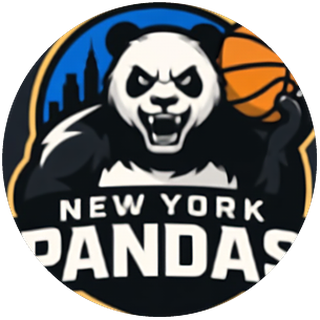
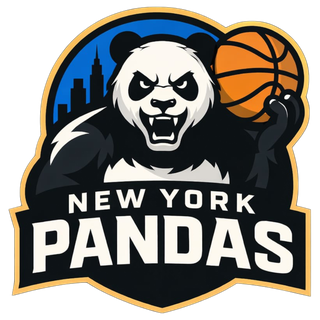
Loghi nuovi per 8 squadre con sfondi più chiari presi dai loghi (v29)
Claude-Session: https://claude.ai/code/session_01FtktU2z5U25oG1RZDpQNAc

diff --git a/skin-notte.css b/skin-notte.css
@@ -2116,21 +2116,21 @@ html.notte .gd.gbar:not(#zz) { background: rgb(91, 33, 182) !important; box-shad
 html.notte .gd.gbar:not(#zz) i:not(.ok):not(.lv):not(.ng) { background: rgb(59, 15, 122) !important; }
 html.notte body[data-ct="DOL"] .gd.gbar:not(#zz) i:not(.ok):not(.lv):not(.ng) { color: rgb(255, 255, 255) !important; -webkit-text-fill-color: rgb(255, 255, 255) !important; }
 /* loghi delle 16 squadre ESPN 16 */
-.badge.logo.lg-DET,.faglb.logo.lg-DET,.tvob.logo.lg-DET{background-image:url("loghi/det.png")!important;background-size:contain!important;background-repeat:no-repeat!important;background-position:center!important;border-radius:0!important;background-color:transparent!important}
-.badge.logo.lg-CLE,.faglb.logo.lg-CLE,.tvob.logo.lg-CLE{background-image:url("loghi/cle.png")!important;background-size:contain!important;background-repeat:no-repeat!important;background-position:center!important;border-radius:0!important;background-color:transparent!important}
-.badge.logo.lg-BOS,.faglb.logo.lg-BOS,.tvob.logo.lg-BOS{background-image:url("loghi/bos.png")!important;background-size:contain!important;background-repeat:no-repeat!important;background-position:center!important;border-radius:0!important;background-color:transparent!important}
+.badge.logo.lg-DET,.faglb.logo.lg-DET,.tvob.logo.lg-DET{background-image:url("loghi/det.png?v=29")!important;background-size:contain!important;background-repeat:no-repeat!important;background-position:center!important;border-radius:0!important;background-color:transparent!important}
+.badge.logo.lg-CLE,.faglb.logo.lg-CLE,.tvob.logo.lg-CLE{background-image:url("loghi/cle.png?v=29")!important;background-size:contain!important;background-repeat:no-repeat!important;background-position:center!important;border-radius:0!important;background-color:transparent!important}
+.badge.logo.lg-BOS,.faglb.logo.lg-BOS,.tvob.logo.lg-BOS{background-image:url("loghi/bos.png?v=29")!important;background-size:contain!important;background-repeat:no-repeat!important;background-position:center!important;border-radius:0!important;background-color:transparent!important}
 .badge.logo.lg-NYS,.faglb.logo.lg-NYS,.tvob.logo.lg-NYS{background-image:url("loghi/nys.png")!important;background-size:contain!important;background-repeat:no-repeat!important;background-position:center!important;border-radius:0!important;background-color:transparent!important}
 .badge.logo.lg-QUE,.faglb.logo.lg-QUE,.tvob.logo.lg-QUE{background-image:url("loghi/que.png")!important;background-size:contain!important;background-repeat:no-repeat!important;background-position:center!important;border-radius:0!important;background-color:transparent!important}
 .badge.logo.lg-CHA,.faglb.logo.lg-CHA,.tvob.logo.lg-CHA{background-image:url("loghi/cha.png")!important;background-size:contain!important;background-repeat:no-repeat!important;background-position:center!important;border-radius:0!important;background-color:transparent!important}
-.badge.logo.lg-NYP,.faglb.logo.lg-NYP,.tvob.logo.lg-NYP{background-image:url("loghi/nyp.png")!important;background-size:contain!important;background-repeat:no-repeat!important;background-position:center!important;border-radius:0!important;background-color:transparent!important}
+.badge.logo.lg-NYP,.faglb.logo.lg-NYP,.tvob.logo.lg-NYP{background-image:url("loghi/nyp.png?v=29")!important;background-size:contain!important;background-repeat:no-repeat!important;background-position:center!important;border-radius:0!important;background-color:transparent!important}
 .badge.logo.lg-CAN,.faglb.logo.lg-CAN,.tvob.logo.lg-CAN{background-image:url("loghi/can.png")!important;background-size:contain!important;background-repeat:no-repeat!important;background-position:center!important;border-radius:0!important;background-color:transparent!important}
 .badge.logo.lg-HOU,.faglb.logo.lg-HOU,.tvob.logo.lg-HOU{background-image:url("loghi/hou.png")!important;background-size:contain!important;background-repeat:no-repeat!important;background-position:center!important;border-radius:0!important;background-color:transparent!important}
-.badge.logo.lg-LVA,.faglb.logo.lg-LVA,.tvob.logo.lg-LVA{background-image:url("loghi/lvg.png")!important;background-size:contain!important;background-repeat:no-repeat!important;background-position:center!important;border-radius:0!important;background-color:transparent!important}
-.badge.logo.lg-HON,.faglb.logo.lg-HON,.tvob.logo.lg-HON{background-image:url("loghi/hon.png")!important;background-size:contain!important;background-repeat:no-repeat!important;background-position:center!important;border-radius:0!important;background-color:transparent!important}
+.badge.logo.lg-LVA,.faglb.logo.lg-LVA,.tvob.logo.lg-LVA{background-image:url("loghi/lvg.png?v=29")!important;background-size:contain!important;background-repeat:no-repeat!important;background-position:center!important;border-radius:0!important;background-color:transparent!important}
+.badge.logo.lg-HON,.faglb.logo.lg-HON,.tvob.logo.lg-HON{background-image:url("loghi/hon.png?v=29")!important;background-size:contain!important;background-repeat:no-repeat!important;background-position:center!important;border-radius:0!important;background-color:transparent!important}
 .badge.logo.lg-ALB,.faglb.logo.lg-ALB,.tvob.logo.lg-ALB{background-image:url("loghi/alb.png")!important;background-size:contain!important;background-repeat:no-repeat!important;background-position:center!important;border-radius:0!important;background-color:transparent!important}
 .badge.logo.lg-ALA,.faglb.logo.lg-ALA,.tvob.logo.lg-ALA{background-image:url("loghi/ala.png")!important;background-size:contain!important;background-repeat:no-repeat!important;background-position:center!important;border-radius:0!important;background-color:transparent!important}
-.badge.logo.lg-WIC,.faglb.logo.lg-WIC,.tvob.logo.lg-WIC{background-image:url("loghi/wic.png")!important;background-size:contain!important;background-repeat:no-repeat!important;background-position:center!important;border-radius:0!important;background-color:transparent!important}
+.badge.logo.lg-WIC,.faglb.logo.lg-WIC,.tvob.logo.lg-WIC{background-image:url("loghi/wic.png?v=29")!important;background-size:contain!important;background-repeat:no-repeat!important;background-position:center!important;border-radius:0!important;background-color:transparent!important}
 .badge.logo.lg-FAL,.faglb.logo.lg-FAL,.tvob.logo.lg-FAL{background-image:url("loghi/fal.png")!important;background-size:contain!important;background-repeat:no-repeat!important;background-position:center!important;border-radius:0!important;background-color:transparent!important}
-.badge.logo.lg-SRO,.faglb.logo.lg-SRO,.tvob.logo.lg-SRO{background-image:url("loghi/sro.png")!important;background-size:contain!important;background-repeat:no-repeat!important;background-position:center!important;border-radius:0!important;background-color:transparent!important}
+.badge.logo.lg-SRO,.faglb.logo.lg-SRO,.tvob.logo.lg-SRO{background-image:url("loghi/sro.png?v=29")!important;background-size:contain!important;background-repeat:no-repeat!important;background-position:center!important;border-radius:0!important;background-color:transparent!important}
 /* (27) tabellino Dynasty TV: AVG 50+ viola come Dreamers (regola mancante nell estrazione) */
 .tvbox td.pdkl.pv .pdkb { background: rgb(139, 92, 246); color: rgb(255, 255, 255); }

diff --git a/skin-giorno.css b/skin-giorno.css
@@ -2288,21 +2288,21 @@ html:not(.notte) .gd.gbar:not(#zz) { background: rgb(255, 255, 255); box-shadow:
 html:not(.notte) .gd.gbar:not(#zz) i:not(.ok):not(.lv):not(.ng) { background: rgb(243, 240, 248); }
 html:not(.notte) body[data-ct="DOL"] .gd.gbar:not(#zz) i:not(.ok):not(.lv):not(.ng) { color: rgb(23, 71, 201) !important; -webkit-text-fill-color: rgb(23, 71, 201) !important; }
 /* loghi delle 16 squadre ESPN 16 */
-.badge.logo.lg-DET,.faglb.logo.lg-DET,.tvob.logo.lg-DET{background-image:url("loghi/det.png")!important;background-size:contain!important;background-repeat:no-repeat!important;background-position:center!important;border-radius:0!important;background-color:transparent!important}
-.badge.logo.lg-CLE,.faglb.logo.lg-CLE,.tvob.logo.lg-CLE{background-image:url("loghi/cle.png")!important;background-size:contain!important;background-repeat:no-repeat!important;background-position:center!important;border-radius:0!important;background-color:transparent!important}
-.badge.logo.lg-BOS,.faglb.logo.lg-BOS,.tvob.logo.lg-BOS{background-image:url("loghi/bos.png")!important;background-size:contain!important;background-repeat:no-repeat!important;background-position:center!important;border-radius:0!important;background-color:transparent!important}
+.badge.logo.lg-DET,.faglb.logo.lg-DET,.tvob.logo.lg-DET{background-image:url("loghi/det.png?v=29")!important;background-size:contain!important;background-repeat:no-repeat!important;background-position:center!important;border-radius:0!important;background-color:transparent!important}
+.badge.logo.lg-CLE,.faglb.logo.lg-CLE,.tvob.logo.lg-CLE{background-image:url("loghi/cle.png?v=29")!important;background-size:contain!important;background-repeat:no-repeat!important;background-position:center!important;border-radius:0!important;background-color:transparent!important}
+.badge.logo.lg-BOS,.faglb.logo.lg-BOS,.tvob.logo.lg-BOS{background-image:url("loghi/bos.png?v=29")!important;background-size:contain!important;background-repeat:no-repeat!important;background-position:center!important;border-radius:0!important;background-color:transparent!important}
 .badge.logo.lg-NYS,.faglb.logo.lg-NYS,.tvob.logo.lg-NYS{background-image:url("loghi/nys.png")!important;background-size:contain!important;background-repeat:no-repeat!important;background-position:center!important;border-radius:0!important;background-color:transparent!important}
 .badge.logo.lg-QUE,.faglb.logo.lg-QUE,.tvob.logo.lg-QUE{background-image:url("loghi/que.png")!important;background-size:contain!important;background-repeat:no-repeat!important;background-position:center!important;border-radius:0!important;background-color:transparent!important}
 .badge.logo.lg-CHA,.faglb.logo.lg-CHA,.tvob.logo.lg-CHA{background-image:url("loghi/cha.png")!important;background-size:contain!important;background-repeat:no-repeat!important;background-position:center!important;border-radius:0!important;background-color:transparent!important}
-.badge.logo.lg-NYP,.faglb.logo.lg-NYP,.tvob.logo.lg-NYP{background-image:url("loghi/nyp.png")!important;background-size:contain!important;background-repeat:no-repeat!important;background-position:center!important;border-radius:0!important;background-color:transparent!important}
+.badge.logo.lg-NYP,.faglb.logo.lg-NYP,.tvob.logo.lg-NYP{background-image:url("loghi/nyp.png?v=29")!important;background-size:contain!important;background-repeat:no-repeat!important;background-position:center!important;border-radius:0!important;background-color:transparent!important}
 .badge.logo.lg-CAN,.faglb.logo.lg-CAN,.tvob.logo.lg-CAN{background-image:url("loghi/can.png")!important;background-size:contain!important;background-repeat:no-repeat!important;background-position:center!important;border-radius:0!important;background-color:transparent!important}
 .badge.logo.lg-HOU,.faglb.logo.lg-HOU,.tvob.logo.lg-HOU{background-image:url("loghi/hou.png")!important;background-size:contain!important;background-repeat:no-repeat!important;background-position:center!important;border-radius:0!important;background-color:transparent!important}
-.badge.logo.lg-LVA,.faglb.logo.lg-LVA,.tvob.logo.lg-LVA{background-image:url("loghi/lvg.png")!important;background-size:contain!important;background-repeat:no-repeat!important;background-position:center!important;border-radius:0!important;background-color:transparent!important}
-.badge.logo.lg-HON,.faglb.logo.lg-HON,.tvob.logo.lg-HON{background-image:url("loghi/hon.png")!important;background-size:contain!important;background-repeat:no-repeat!important;background-position:center!important;border-radius:0!important;background-color:transparent!important}
+.badge.logo.lg-LVA,.faglb.logo.lg-LVA,.tvob.logo.lg-LVA{background-image:url("loghi/lvg.png?v=29")!important;background-size:contain!important;background-repeat:no-repeat!important;background-position:center!important;border-radius:0!important;background-color:transparent!important}
+.badge.logo.lg-HON,.faglb.logo.lg-HON,.tvob.logo.lg-HON{background-image:url("loghi/hon.png?v=29")!important;background-size:contain!important;background-repeat:no-repeat!important;background-position:center!important;border-radius:0!important;background-color:transparent!important}
 .badge.logo.lg-ALB,.faglb.logo.lg-ALB,.tvob.logo.lg-ALB{background-image:url("loghi/alb.png")!important;background-size:contain!important;background-repeat:no-repeat!important;background-position:center!important;border-radius:0!important;background-color:transparent!important}
 .badge.logo.lg-ALA,.faglb.logo.lg-ALA,.tvob.logo.lg-ALA{background-image:url("loghi/ala.png")!important;background-size:contain!important;background-repeat:no-repeat!important;background-position:center!important;border-radius:0!important;background-color:transparent!important}
-.badge.logo.lg-WIC,.faglb.logo.lg-WIC,.tvob.logo.lg-WIC{background-image:url("loghi/wic.png")!important;background-size:contain!important;background-repeat:no-repeat!important;background-position:center!important;border-radius:0!important;background-color:transparent!important}
+.badge.logo.lg-WIC,.faglb.logo.lg-WIC,.tvob.logo.lg-WIC{background-image:url("loghi/wic.png?v=29")!important;background-size:contain!important;background-repeat:no-repeat!important;background-position:center!important;border-radius:0!important;background-color:transparent!important}
 .badge.logo.lg-FAL,.faglb.logo.lg-FAL,.tvob.logo.lg-FAL{background-image:url("loghi/fal.png")!important;background-size:contain!important;background-repeat:no-repeat!important;background-position:center!important;border-radius:0!important;background-color:transparent!important}
-.badge.logo.lg-SRO,.faglb.logo.lg-SRO,.tvob.logo.lg-SRO{background-image:url("loghi/sro.png")!important;background-size:contain!important;background-repeat:no-repeat!important;background-position:center!important;border-radius:0!important;background-color:transparent!important}
+.badge.logo.lg-SRO,.faglb.logo.lg-SRO,.tvob.logo.lg-SRO{background-image:url("loghi/sro.png?v=29")!important;background-size:contain!important;background-repeat:no-repeat!important;background-position:center!important;border-radius:0!important;background-color:transparent!important}
 /* (27) tabellino Dynasty TV: AVG 50+ viola come Dreamers (regola mancante nell estrazione) */
 .tvbox td.pdkl.pv .pdkb { background: rgb(139, 92, 246); color: rgb(255, 255, 255); }

diff --git a/index.html b/index.html
@@ -302,22 +302,22 @@ e16Tema(E16N);</script>
 /* ===== SQUADRE (da ESPN Fantasy, 10/11/2026). conf: E = East, W = West. Ordine = ordine della classifica ESPN.
    I nomi con "…" sono tagliati nello screenshot: da completare (o arriveranno dal collegamento alla lega ESPN). */
 const TEAMS=[
- {id:"DET",nome:"Detroit Pythons",gm:"Domenico Borracci",conf:"E",logo:"loghi/det.png"},
- {id:"CLE",nome:"Cleveland Cadavers",gm:"Andrea Ce",conf:"E",logo:"loghi/cle.png"},
- {id:"BOS",nome:"Boston TeaBags",gm:"Giuseppe Formica",conf:"E",logo:"loghi/bos.png"},
+ {id:"DET",nome:"Detroit Pythons",gm:"Domenico Borracci",conf:"E",logo:"loghi/det.png?v=29"},
+ {id:"CLE",nome:"Cleveland Cadavers",gm:"Andrea Ce",conf:"E",logo:"loghi/cle.png?v=29"},
+ {id:"BOS",nome:"Boston TeaBags",gm:"Giuseppe Formica",conf:"E",logo:"loghi/bos.png?v=29"},
  {id:"NYS",nome:"NY samb",gm:"Michael Di Fazi",conf:"E",logo:"loghi/nys.png"},
  {id:"QUE",nome:"Quebec Ducks",gm:"HC. Ducks",conf:"E",logo:"loghi/que.png"},
  {id:"CHA",nome:"Charlotte Cougars",gm:"Andrea Indovino",conf:"E",logo:"loghi/cha.png"},
- {id:"NYP",nome:"New York pandas",gm:"M. MisterfBio",conf:"E",logo:"loghi/nyp.png"},
+ {id:"NYP",nome:"New York pandas",gm:"M. MisterfBio",conf:"E",logo:"loghi/nyp.png?v=29"},
  {id:"CAN",nome:"Cancùn Mayans",gm:"Fabio Umberto Montrucchio",conf:"E",logo:"loghi/can.png"},
  {id:"HOU",nome:"Houston Orange Lions",gm:"Marco Van den Berg",conf:"W",logo:"loghi/hou.png"},
- {id:"LVA",nome:"Las Vegas Aliens",gm:"Claudio Monga",conf:"W",logo:"loghi/lvg.png"},
- {id:"HON",nome:"Honolulu Monk Seals",gm:"Matteo Pagani",conf:"W",logo:"loghi/hon.png"},
+ {id:"LVA",nome:"Las Vegas Aliens",gm:"Claudio Monga",conf:"W",logo:"loghi/lvg.png?v=29"},
+ {id:"HON",nome:"Honolulu Monk Seals",gm:"Matteo Pagani",conf:"W",logo:"loghi/hon.png?v=29"},
  {id:"ALB",nome:"Albuquerque Bluesky",gm:"Tommaso Di Vincenzo",conf:"W",logo:"loghi/alb.png"},
  {id:"ALA",nome:"Alaska Whales",gm:"Andrea Panci",conf:"W",logo:"loghi/ala.png"},
- {id:"WIC",nome:"Wichita Aviators",gm:"Alfio Maccarrone",conf:"W",logo:"loghi/wic.png"},
+ {id:"WIC",nome:"Wichita Aviators",gm:"Alfio Maccarrone",conf:"W",logo:"loghi/wic.png?v=29"},
  {id:"FAL",nome:"Fallon Mavericks",gm:"Giorgio Durante",conf:"W",logo:"loghi/fal.png"},
- {id:"SRO",nome:"Santa Rosa Pirates",gm:"Mattia Zanni",conf:"W",logo:"loghi/sro.png"}
+ {id:"SRO",nome:"Santa Rosa Pirates",gm:"Mattia Zanni",conf:"W",logo:"loghi/sro.png?v=29"}
 ];
 const TM=Object.fromEntries(TEAMS.map(t=>[t.id,t]));
 /* (19) ETÀ PRECISE: dalla data di nascita (eta-data.js, rose ESPN). etaOf(nome) = anni compiuti oggi; etaTxt = "23 anni"; u25 = sotto i 25 (regola della tribuna) */
@@ -327,7 +327,7 @@ function etaOf(n){const d=nascOf(n);if(!d)return null;const t=new Date(),b=new D
 const etaTxt=n=>{const a=etaOf(n);return a==null?"":a+" anni"};
 const u25=n=>{const a=etaOf(n);return a!=null&&a<25};
 /* (6) colore di ogni squadra (dal logo), usato come in Dreamers per grafici, intestazioni squadra e righe */
-const TCOL={DET:"#4c1d95",CLE:"#1f2937",BOS:"#9a3412",NYS:"#c2410c",QUE:"#6d28d9",CHA:"#b45309",NYP:"#111827",CAN:"#0f766e",HOU:"#ea580c",LVA:"#1e3a8a",HON:"#0e7490",ALB:"#7f1d1d",ALA:"#1d4ed8",WIC:"#c2410c",FAL:"#1e3a8a",SRO:"#0f172a"};
+const /* (29) sfondi loghi presi dai colori dei loghi nuovi, un po più chiari */TCOL={DET:"#2b4fa8",CLE:"#6d3fc0",BOS:"#b5531f",NYS:"#c2410c",QUE:"#6d28d9",CHA:"#b45309",NYP:"#2a62c4",CAN:"#0f766e",HOU:"#ea580c",LVA:"#3d4a6e",HON:"#2f6fa8",ALB:"#7f1d1d",ALA:"#1d4ed8",WIC:"#565e6e",FAL:"#1e3a8a",SRO:"#34507a"};
 /* vittorie/sconfitte dagli screenshot ESPN (finché la lega non è collegata). pf/pa = punti fatti/subiti, se noti */
 const REC={DET:{w:2,l:1,pf:0,pa:0},CLE:{w:2,l:1,pf:0,pa:0},BOS:{w:2,l:1,pf:0,pa:0},NYS:{w:1,l:2,pf:0,pa:0},QUE:{w:1,l:2,pf:0,pa:0},CHA:{w:0,l:3,pf:0,pa:0},NYP:{w:0,l:3,pf:0,pa:0},CAN:{w:0,l:3,pf:0,pa:0},HOU:{w:3,l:0,pf:0,pa:0},LVA:{w:3,l:0,pf:0,pa:0},HON:{w:3,l:0,pf:0,pa:0},ALB:{w:2,l:1,pf:0,pa:0},ALA:{w:2,l:1,pf:0,pa:0},WIC:{w:1,l:2,pf:0,pa:0},FAL:{w:1,l:2,pf:0,pa:0},SRO:{w:1,l:2,pf:0,pa:0}};
 /* ===== ROSE dagli screenshot ESPN. [nome completo come nei tabellini ESPN, squadra NBA, slot in formazione ESPN, ruoli ESPN]

diff --git a/campo.js b/campo.js
@@ -8,7 +8,7 @@ const e=s=>String(s).replace(/[&<>"]/g,c=>({"&":"&amp;","<":"&lt;",">":"&gt;",'"
 const f1=v=>(Math.round(v*10)/10).toLocaleString("it-IT",{minimumFractionDigits:1,maximumFractionDigits:1});
 /* colori inventati: maglia (bg), scritte (fg), bordi (trim), cornice del campo (fr), legno (w1 bordi, w2 centro) */
 const COL={DET:{bg:"#4c1d95",fg:"#facc15",trim:"#111111",fr:"#1e0b3d",w1:"#ae592c",w2:"#e8763a"},
- CLE:{bg:"#111827",fg:"#e5e7eb",trim:"#7f1d1d",fr:"#0b0f19",w1:"#7c4a2d",w2:"#b9794a"},
+ CLE:{bg:"#111827",fg:"#e5e7eb",trim:"#7c3aed",fr:"#0b0f19",w1:"#7c4a2d",w2:"#b9794a"},
  BOS:{bg:"#166534",fg:"#ffffff",trim:"#ca8a04",fr:"#0b2e1a",w1:"#a3602f",w2:"#d9944f"},
  NYS:{bg:"#c2410c",fg:"#ffffff",trim:"#1e3a8a",fr:"#1e3a8a",w1:"#ae592c",w2:"#e8763a"},
  CHA:{bg:"#0f172a",fg:"#f59e0b",trim:"#f59e0b",fr:"#0b1222",w1:"#9c5a2c",w2:"#d48a48"},
@@ -19,7 +19,7 @@ const COL={DET:{bg:"#4c1d95",fg:"#facc15",trim:"#111111",fr:"#1e0b3d",w1:"#ae592
  HON:{bg:"#0e7490",fg:"#ffffff",trim:"#fb923c",fr:"#083344",w1:"#b0703e",w2:"#e6a663"},
  ALB:{bg:"#38bdf8",fg:"#0b1022",trim:"#7f1d1d",fr:"#0c4a6e",w1:"#ae592c",w2:"#e8763a"},
  ALA:{bg:"#1d4ed8",fg:"#ffffff",trim:"#93c5fd",fr:"#0b1f5c",w1:"#a3602f",w2:"#d9944f"},
- WIC:{bg:"#b91c1c",fg:"#ffffff",trim:"#fb923c",fr:"#3b0a0a",w1:"#ae592c",w2:"#e8763a"},
+ WIC:{bg:"#ea580c",fg:"#ffffff",trim:"#9ca3af",fr:"#3b1a0a",w1:"#ae592c",w2:"#e8763a"},
  FAL:{bg:"#0b1022",fg:"#ffffff",trim:"#f97316",fr:"#0b1022",w1:"#9c5a2c",w2:"#d48a48"},
  SRO:{bg:"#0f172a",fg:"#f1f5f9",trim:"#b91c1c",fr:"#020617",w1:"#7c4a2d",w2:"#b9794a"}};
 let JID=0;

diff --git a/sw.js b/sw.js
@@ -1,5 +1,5 @@
 /* ESPN 16 – service worker: prima la rete (dati sempre freschi), la cache solo se si è offline. Cambia V a ogni pubblicazione. */
-const V="espn16-v28";
+const V="espn16-v29";
 self.addEventListener("install",e=>self.skipWaiting());
 self.addEventListener("activate",e=>e.waitUntil(caches.keys().then(K=>Promise.all(K.filter(k=>k!==V).map(k=>caches.delete(k)))).then(()=>self.clients.claim())));
 self.addEventListener("fetch",e=>{const u=new URL(e.request.url);if(e.request.method!=="GET"||u.origin!==location.origin)return;

diff --git a/NOTE_SVILUPPO.md b/NOTE_SVILUPPO.md
@@ -62,3 +62,5 @@
 (27) 10/11/2026 – Dynasty TV tabellino: AVG 50+ viola (td.pdkl.pv), regola Dreamers mancante nelle skin estratte; aggiunta in fondo a skin-giorno.css e skin-notte.css (se si rigenerano le skin, rimetterla).
 
 (28) 10/11/2026 – Cambio giorno/notte fluido: skin-giorno/notte sempre caricate, si cambia solo media (con disabled Safari le ricaricava: lampo bianco e lente gigante = pagina senza stile). Dissolvenza 0,25 s con View Transition dove supportata.
+
+(29) 10/11/2026 – Loghi nuovi già ritagliati dall utente per LVA (lvg), CLE, SRO, DET, HON, NYP, BOS, WIC: ritagliati al contenuto (puntini sparsi tolti), 320px, ?v=29 per non usare la copia vecchia. TCOL di queste squadre presi dai colori dei loghi e un po più chiari (LVA #3d4a6e, CLE #6d3fc0, SRO #34507a, DET #2b4fa8, HON #2f6fa8, NYP #2a62c4, BOS #b5531f, WIC #565e6e). Maglie: CLE bordo viola, WIC arancio.
